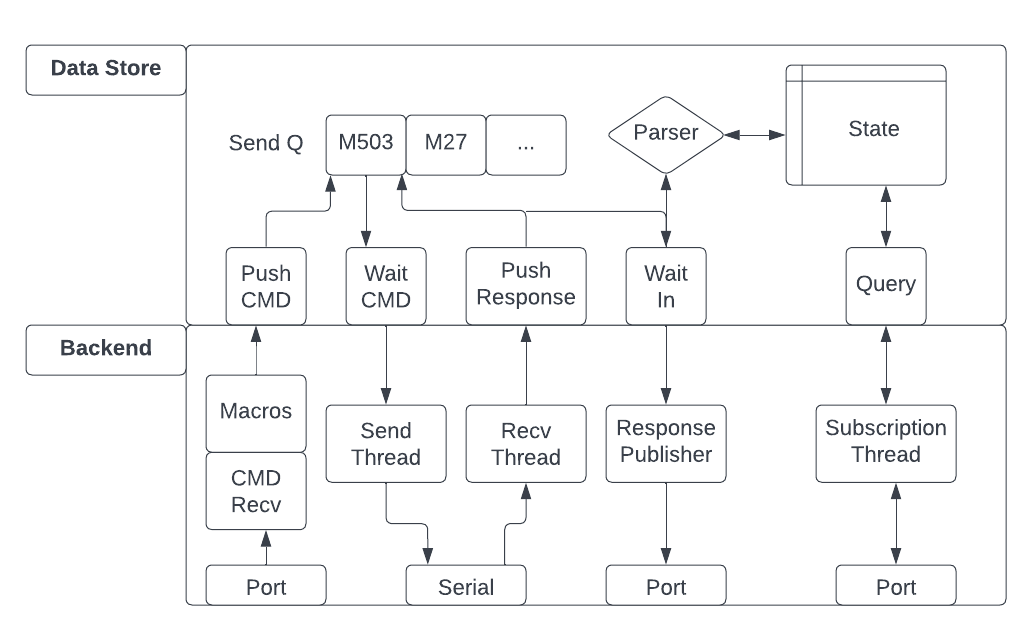
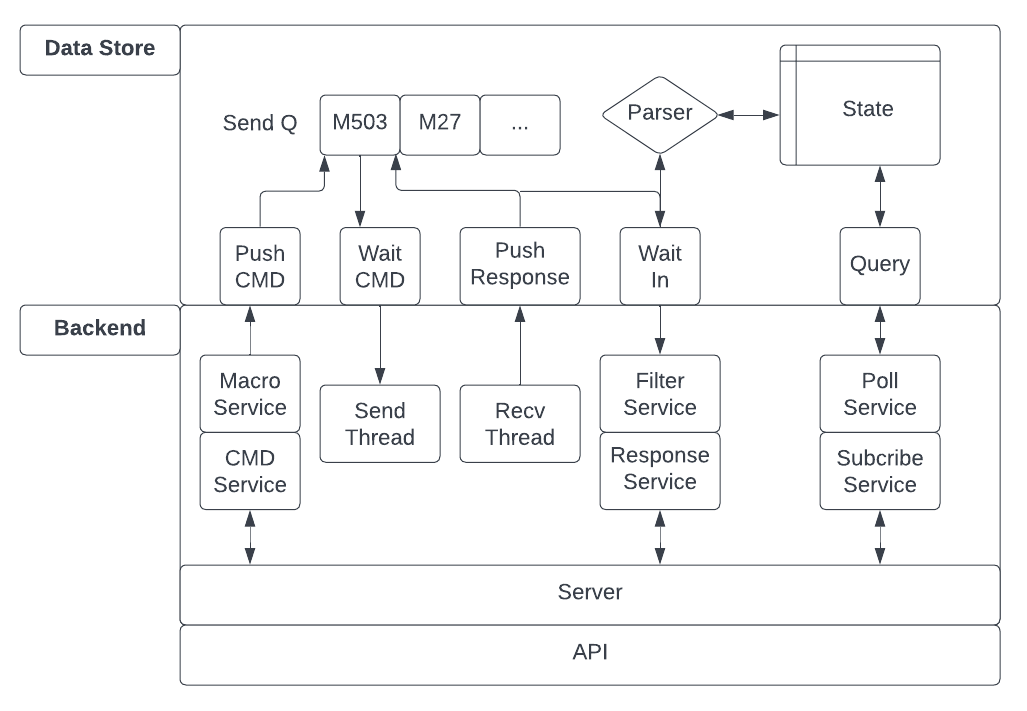
..

Changed region(s): [[0.0, 0.0299, 0.9971, 0.9858], [0.2493, 0.2689, 0.2804, 0.2987]]

diff --git a/meme_ctlr/meme_backend.py b/meme_ctlr/meme_backend.py
@@ -12,14 +12,6 @@ killed = 0
 ds = data_store.DataStore()
 port = serial.Serial(port = port_dev, baudrate = baud, timeout = serial_timeout)
 
-response_pipe_name = "./response_pipe"
-sub_pipe_name = "./sub_pipe"
-cmd_pipe_name = "./cmd_pipe"
-os.mkfifo(response_pipe_name)
-os.mkfifo(sub_pipe_name)
-os.mkfifo(cmd_pipe_name)
-os.system("gnome-terminal -e 'bash -c \"cat " + sub_pipe_name + "\"'")
-
 def recv_thread():
     print("Recv Thread Starting...")
     while not killed:
@@ -36,70 +28,12 @@ def send_thread():
             port.write((cmd+"\n").encode('ascii'))
     print("Send Thread Stopping...")
 
-def response_poster():
-    with open(response_pipe_name, "w") as fifo:
-        print("Response Thread Starting...")
-        while not killed:
-            r = ds.wait_on_next_response()
-            fifo.write(r)
-            fifo.flush()
-    print("Response Thread Stopping...")
-
-def cmd_thead():
-    try:
-        with open(cmd_pipe_name, "r") as fifo:
-            print("CMD thread starting...")
-            while not killed:
-                cmd = fifo.readline()
-                if killed:
-                    break
-                cmd = cmd[0:(len(cmd)-1)]
-                ds.push_next_send(cmd)
-    except:
-        print("CMD thread stopping...")
-
-def subscription_poster():
-    with open(sub_pipe_name, "w") as fifo1:
-        print("Subscription Thread Starting...")
-        while not killed:
-            ds.push_next_send("M204")
-            time.sleep(2)
-            temps = ds.get_state("M155")
-            fifo1.write("Temp Nozzle Current) " + str(temps[0]) + "\n")
-            fifo1.write("Temp Nozzle Target) " + str(temps[1]) + "\n")
-            fifo1.write("Temp Bed Current) " + str(temps[2]) + "\n")
-            fifo1.write("Temp Bed Target) " + str(temps[3]) + "\n\n")
-
-            pos = ds.get_state("M154")
-            fifo1.write("X) " + str(pos[0]) + "\n")
-            fifo1.write("Y) " + str(pos[1]) + "\n")
-            fifo1.write("Z) " + str(pos[2]) + "\n")
-            fifo1.write("E) " + str(pos[3]) + "\n\n")
-
-            a = ds.get_state("M204")
-            fifo1.write("Print) " + str(a[0]) + "\n")
-            fifo1.write("Retract) " + str(a[1]) + "\n")
-            fifo1.write("Travel) " + str(a[2]) + "\n")
-
-            fifo1.write("\033[F\033[F\033[F\033[F\033[F\033[F\033[F\033[F\033[F\033[F\033[F\033[F\033[F")
-            fifo1.flush()
-    print("Subscription Thread Stopping...")
-
 
 send_t = threading.Thread(target=send_thread, name="Send_Thread")
 send_t.start()
 
 recv_t = threading.Thread(target=recv_thread, name="Recv_Thread")
 recv_t.start()
-
-response_t = threading.Thread(target=response_poster, name="Respnse Thread")
-response_t.start()
-
-sub_t = threading.Thread(target=subscription_poster, name="Sub Thread")
-sub_t.start()
-
-cmd_t = threading.Thread(target=cmd_thead, name="CMD Thread")
-cmd_t.start()
 
 while not killed:
     t = input("quit? ")
@@ -111,9 +45,6 @@ while not killed:
 
 ds.kill()
 send_t.join()
-response_t.join()
 recv_t.join()
-cmd_t.join()
-sub_t.join()
 port.close()
-os.system("rm -rf __pycache__ " + response_pipe_name + " " + sub_pipe_name + " " + cmd_pipe_name)
+os.system("rm -rf __pycache__ ")

diff --git a/meme_ctlr/README.md b/meme_ctlr/README.md
@@ -40,7 +40,7 @@ Implements all IO.
 * **Sub Thread.** **TODO** flesh this out more along with get_state function to define API for subscribing to state.
 
 # TODO
-* program stats and deal with unbounded sendQ
+* program stats and deal with unbounded sendQ and logging
 * Start up commands and macros
 * Subcription system) I want parsed values from command x,y,z at a regular time interval
 * Programmatic way of adding to the parsed command list i.e. state map
